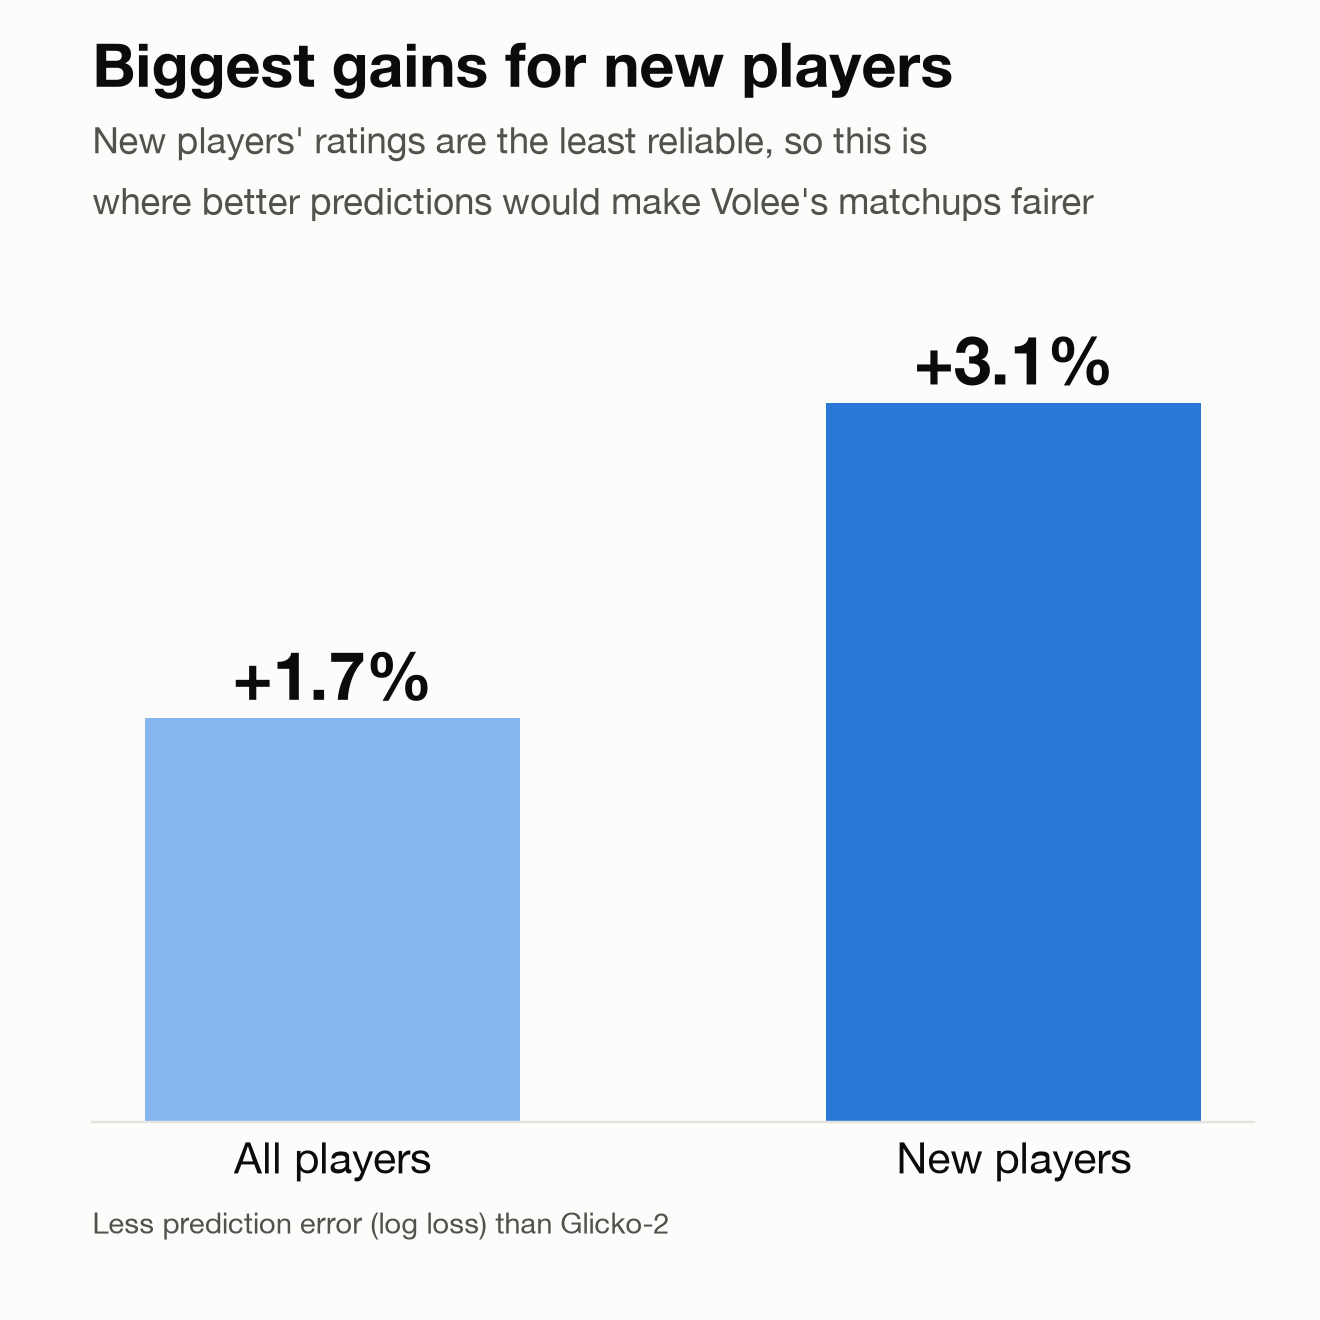
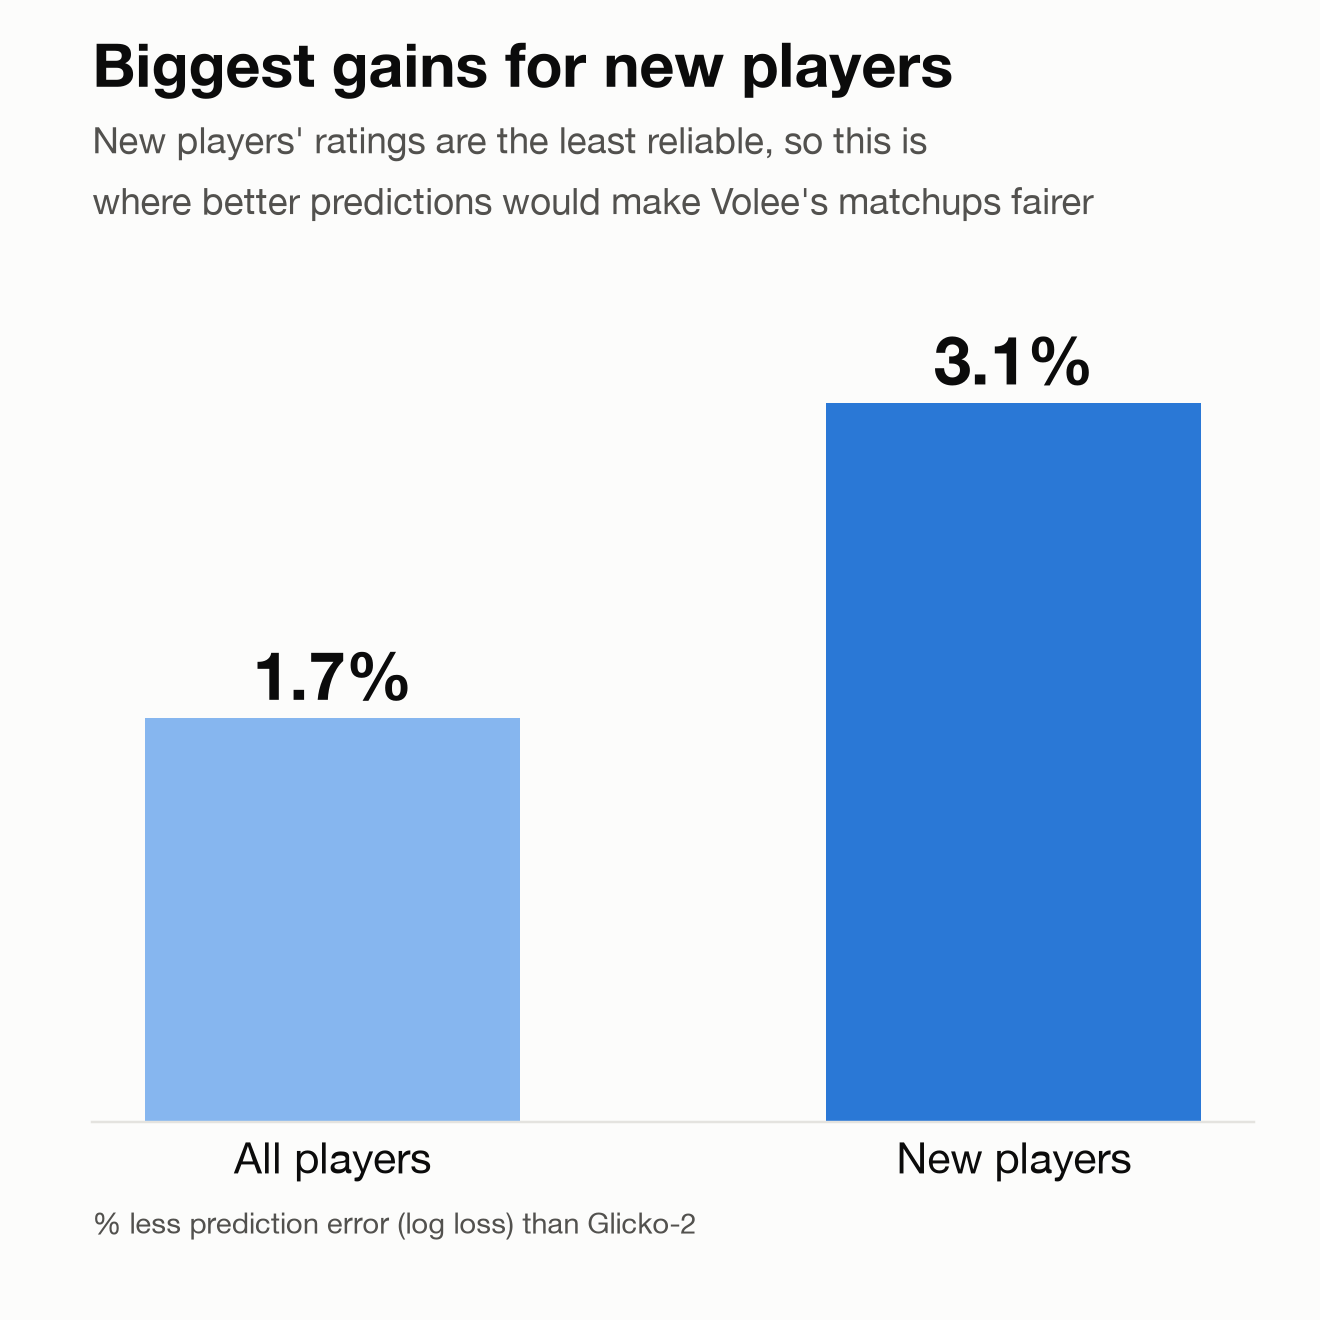
LinkedIn charts: show error reduction without a plus sign

Changed region(s): [[0.0621, 0.9008, 0.528, 0.9318], [0.6833, 0.2485, 0.8386, 0.3106], [0.1864, 0.497, 0.3417, 0.528]]

diff --git a/volee_ml/figures.py b/volee_ml/figures.py
@@ -284,7 +284,7 @@ def linkedin(test: pd.DataFrame, preds: dict) -> None:
         est, lo, hi = bootstrap_improvement(test, preds[k], preds["volee_glicko"])
         ax.bar(i, est * 100, 0.6, color=COLOR[k])
         ax.vlines(i, lo * 100, hi * 100, color=INK, linewidth=1.5)
-        ax.text(i, hi * 100 + 0.08, f"+{est:.2%}", ha="center", fontsize=17, fontweight="bold", color=INK)
+        ax.text(i, hi * 100 + 0.08, f"{est:.2%}", ha="center", fontsize=17, fontweight="bold", color=INK)
     ax.set_xticks(range(3))
     ax.set_xticklabels([short[k] for k in keys], fontsize=12, color=INK)
     ax.tick_params(axis="x", length=0)
@@ -292,7 +292,7 @@ def linkedin(test: pd.DataFrame, preds: dict) -> None:
     ax.spines["left"].set_visible(False)
     ax.set_ylim(0, 2.6)
     ax.set_title("Better forecasts than Glicko-2", fontsize=20, pad=58)
-    ax.text(0, 1.035, "How much less prediction error each model makes\nthan the rating system in my tennis app, Volee",
+    ax.text(0, 1.035, "% less prediction error than the rating system\nin my tennis app, Volee",
             transform=ax.transAxes, color=SUB, fontsize=12, va="bottom", linespacing=1.4)
     ax.text(0, -0.2, "Measured on 16k held-out matches · lines = 95% confidence interval",
             transform=ax.transAxes, color=SUB, fontsize=9.5)
@@ -309,7 +309,7 @@ def linkedin(test: pd.DataFrame, preds: dict) -> None:
     fig, ax = plt.subplots(figsize=(6, 6))
     ax.bar([0, 1], gains, 0.55, color=["#86b6ef", COLOR["logistic_regression"]])
     for i, g in enumerate(gains):
-        ax.text(i, g + 0.08, f"+{g:.1f}%", ha="center", fontsize=22, fontweight="bold", color=INK)
+        ax.text(i, g + 0.08, f"{g:.1f}%", ha="center", fontsize=22, fontweight="bold", color=INK)
     ax.set_xticks([0, 1])
     ax.set_xticklabels(["All players", "New players"], fontsize=14, color=INK)
     ax.tick_params(axis="x", length=0)
@@ -319,7 +319,7 @@ def linkedin(test: pd.DataFrame, preds: dict) -> None:
     ax.set_title("Biggest gains for new players", fontsize=20, pad=58)
     ax.text(0, 1.035, "New players' ratings are the least reliable, so this is\nwhere better predictions would make Volee's matchups fairer",
             transform=ax.transAxes, color=SUB, fontsize=12, va="bottom", linespacing=1.4)
-    ax.text(0, -0.13, "Less prediction error (log loss) than Glicko-2", transform=ax.transAxes, color=SUB, fontsize=9.5)
+    ax.text(0, -0.13, "% less prediction error (log loss) than Glicko-2", transform=ax.transAxes, color=SUB, fontsize=9.5)
     fig.subplots_adjust(left=0.07, right=0.95, top=0.8, bottom=0.15)
     save(fig, "linkedin_2.png")
 
